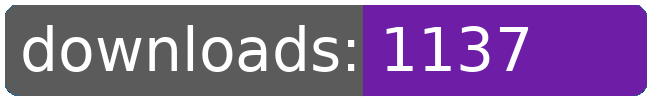
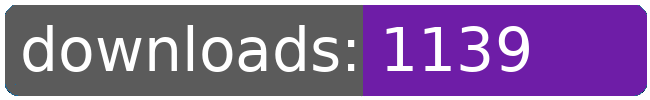
dl log written

Changed region(s): [[0.7692, 0.24, 0.8308, 0.72]]

diff --git a/README.md b/README.md
@@ -164,8 +164,8 @@
 		<td>1112</td>
 		<td>1121</td>
 		<td>1127</td>
-		<td>1137</td>
-		<td>+ 10</td>
+		<td>1139</td>
+		<td>+ 12</td>
 	</tr>
 	<tr>
 		<td>purchaseable.cloakingdevice</td>
@@ -175,8 +175,8 @@
 		<td>2202</td>
 		<td>2210</td>
 		<td>2214</td>
-		<td>2224</td>
-		<td>+ 10</td>
+		<td>2226</td>
+		<td>+ 12</td>
 	</tr>
 	<tr>
 		<td>quargoutfitter</td>
@@ -252,8 +252,8 @@
 		<td></td>
 		<td></td>
 		<td></td>
-		<td>41280</td>
-		<td>294</td>
+		<td>41284</td>
+		<td>298</td>
 	</tr>
 </table>
 </sub></sup>
@@ -366,8 +366,8 @@
 		<td>2202</td>
 		<td>2210</td>
 		<td>2214</td>
-		<td>2224</td>
-		<td>+ 10</td>
+		<td>2226</td>
+		<td>+ 12</td>
 	</tr>
 	<tr>
 		<td>unlimited.dfc</td>
@@ -454,8 +454,8 @@
 		<td>1112</td>
 		<td>1121</td>
 		<td>1127</td>
-		<td>1137</td>
-		<td>+ 10</td>
+		<td>1139</td>
+		<td>+ 12</td>
 	</tr>
 	<tr>
 		<td>reduce.requiredcrew</td>
@@ -509,8 +509,8 @@
 		<td></td>
 		<td></td>
 		<td></td>
-		<td>41280</td>
-		<td>294</td>
+		<td>41284</td>
+		<td>298</td>
 	</tr>
 </table>
 </sub></sup>
